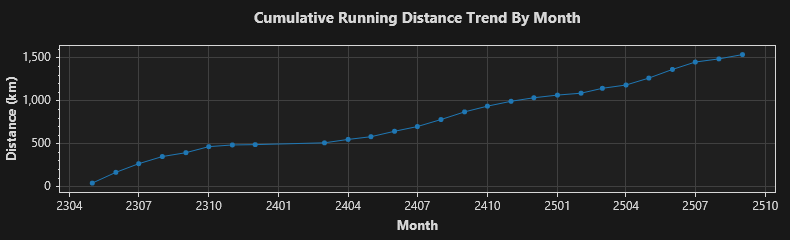
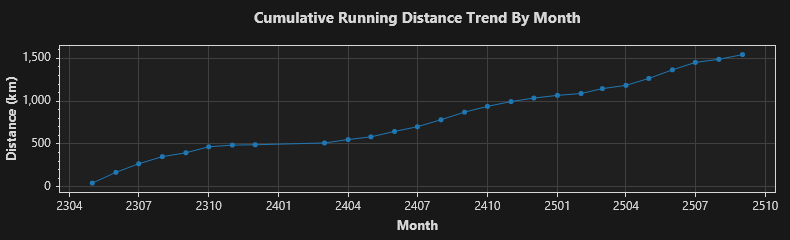
2025/9/18 跑步 5.02 公里

diff --git a/trend.md b/trend.md
@@ -1,4 +1,4 @@
-### Total: 258 days, 1539.09 km.
+### Total: 259 days, 1544.11 km.
 
 
 ![Monthly](https://github.com/prime167/MyRunningLog/blob/main/data/CumulativeTrendByMonth.png)
